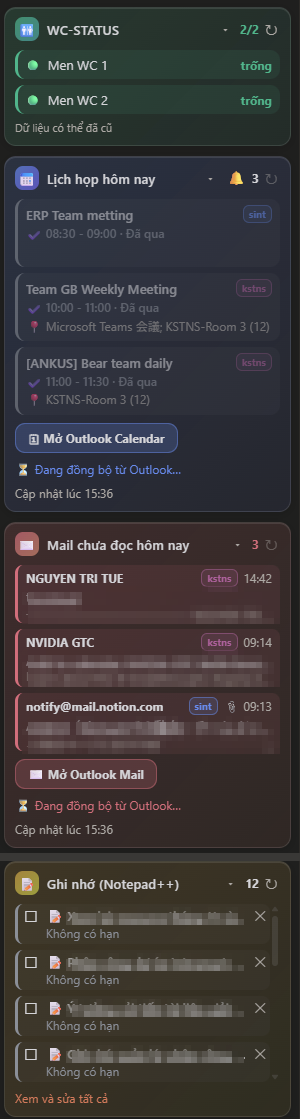
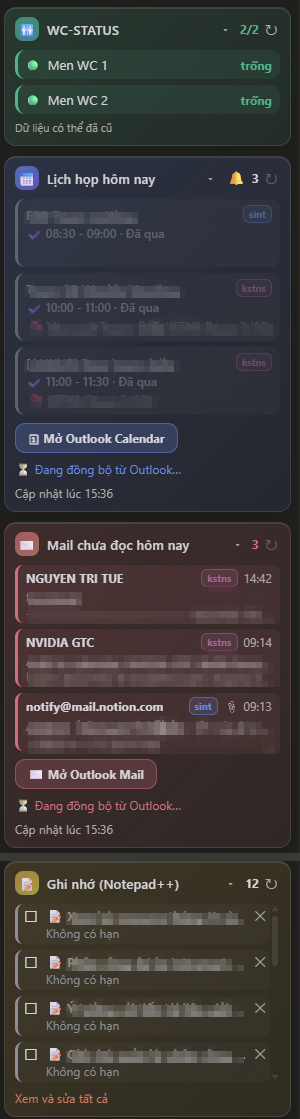
Blur meeting titles and locations in the sidebar screenshot

Changed region(s): [[0.09, 0.2431, 0.6, 0.3646], [0.09, 0.1823, 0.45, 0.2127]]

diff --git a/README.md b/README.md
@@ -6,7 +6,7 @@ Plugin cho [Paseo](https://paseo.sh) gom bốn thứ hay xem trong ngày làm vi
   <img src="assets/sidebar.png" alt="Sidebar của Office Hub: WC-STATUS, lịch họp, mail chưa đọc và ghi nhớ" width="300">
 </p>
 
-> Ảnh trên đã làm mờ tiêu đề mail và ghi nhớ.
+> Ảnh trên đã làm mờ tên và địa điểm cuộc họp, tiêu đề mail và ghi nhớ.
 
 ## Tính năng
 
